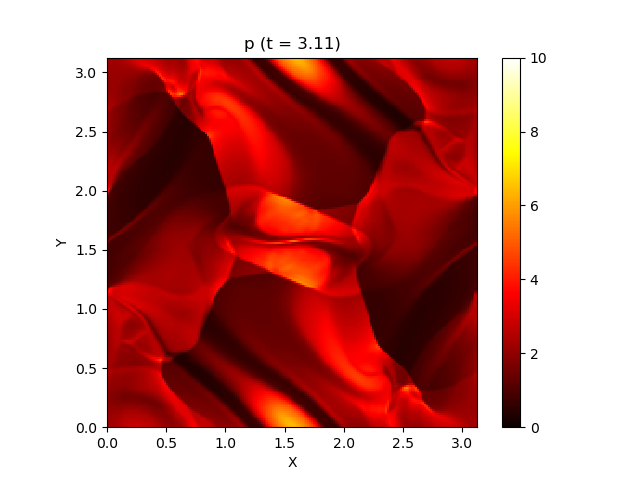
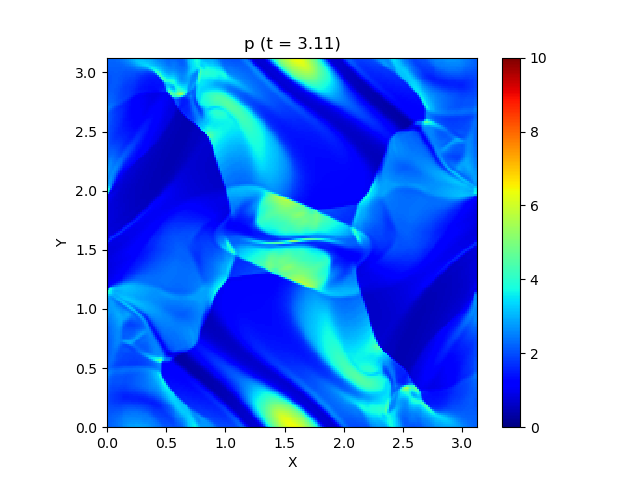
画像の色変更等

diff --git a/Orszag-Tang_vortex/src/plot_img.py b/Orszag-Tang_vortex/src/plot_img.py
@@ -11,7 +11,7 @@ var = ["r", "p", "u", "v", "w", "bx", "by", "bz", "ps"]
 title = ["ρ", "p", "u", "v", "w", "Bx", "By", "Bz", "ψ"]
 maxs = [8.0, 10.0,  1.5,  1.5,  1.0,  3.0,  2.5,  1.0,  0.2]
 mins = [0.0,  0.0, -1.5, -1.5, -1.0, -3.0, -2.5, -1.0, -0.2]
-cols = [cm.hot, cm.hot, cm.BrBG, cm.BrBG, cm.BrBG,
+cols = [cm.jet, cm.jet, cm.BrBG, cm.BrBG, cm.BrBG,
         cm.BrBG, cm.BrBG, cm.BrBG, cm.BrBG]
 for i in range(VN):
     plt.gcf().clear()

diff --git a/Orszag-Tang_vortex/src/plot_mov.py b/Orszag-Tang_vortex/src/plot_mov.py
@@ -12,7 +12,7 @@ var = ["r", "p", "u", "v", "w", "bx", "by", "bz", "ps"]
 title = ["ρ", "p", "u", "v", "w", "Bx", "By", "Bz", "ψ"]
 maxs = [8.0, 10.0,  1.5,  1.5,  1.0,  3.0,  2.5,  1.0,  0.2]
 mins = [0.0,  0.0, -1.5, -1.5, -1.0, -3.0, -2.5, -1.0, -0.2]
-cols = [cm.hot, cm.hot, cm.BrBG, cm.BrBG, cm.BrBG,
+cols = [cm.jet, cm.jet, cm.BrBG, cm.BrBG, cm.BrBG,
         cm.BrBG, cm.BrBG, cm.BrBG, cm.BrBG]
 data1 = []
 for i in range(VN):

diff --git a/Orszag-Tang_vortex/src/main.py b/Orszag-Tang_vortex/src/main.py
@@ -500,7 +500,7 @@ def main():
     plt.title("p")
     plt.xlabel("X")
     plt.ylabel("Y")
-    im = plt.pcolor(x, y, p.T, cmap = cm.hot, shading = "auto")
+    im = plt.pcolor(x, y, p.T, cmap = cm.jet, shading = "auto")
     im.set_clim(0.0, 8.0)
     fig.colorbar(im)
     plt.show()
